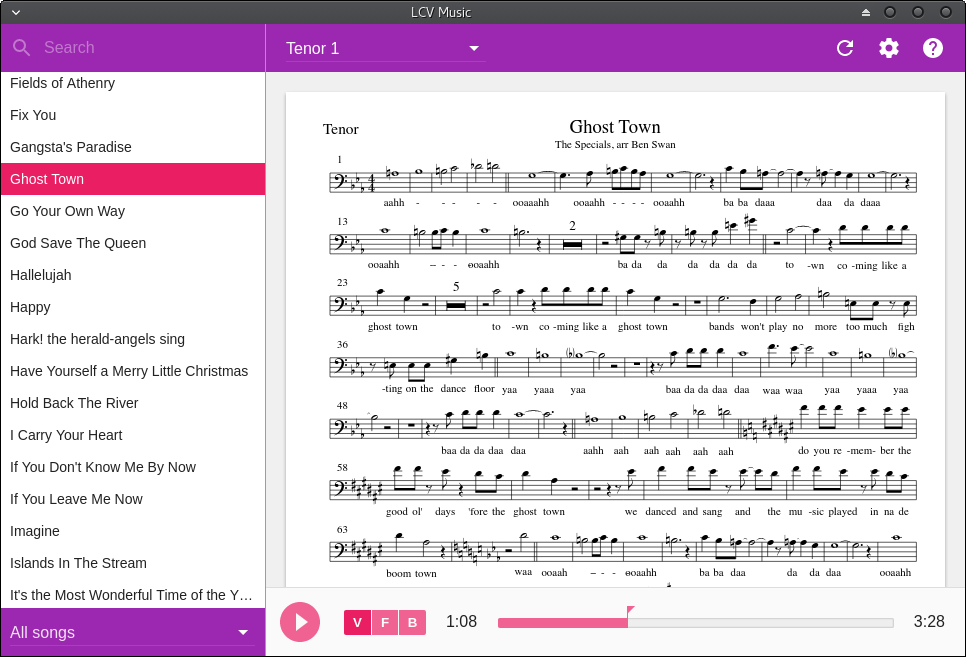
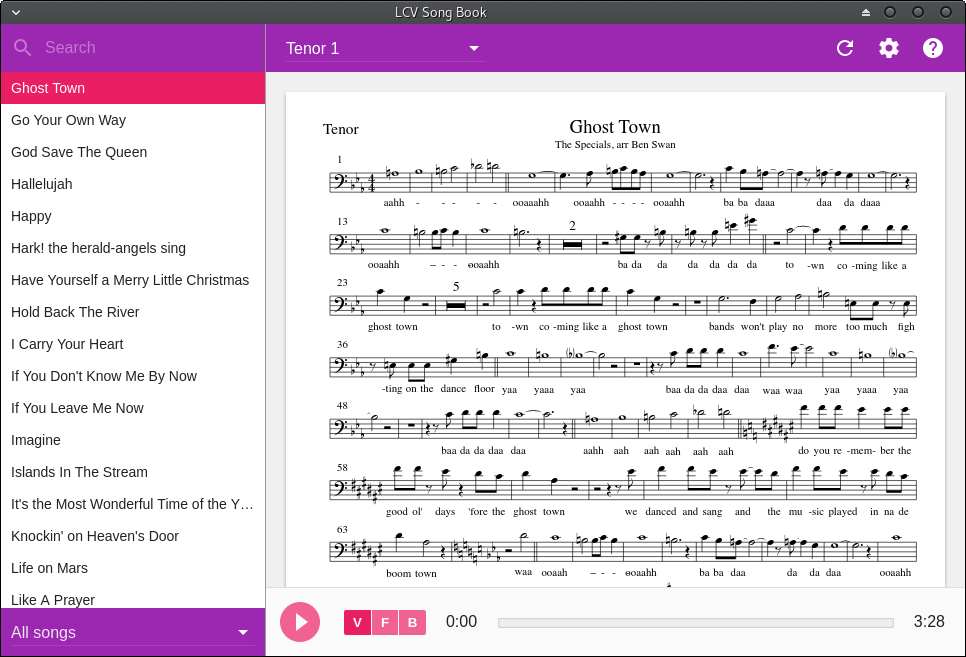
Rename app to LCV Song Book

diff --git a/app/static/index.html b/app/static/index.html
@@ -2,7 +2,7 @@
 <html>
 <head>
   <meta charset="utf-8">
-  <title>LCV Music</title>
+  <title>LCV Song Book</title>
   <link rel="stylesheet" href="../css/app.css">
   <script>
     document.documentElement.classList.add(`u-${process.platform}`)
